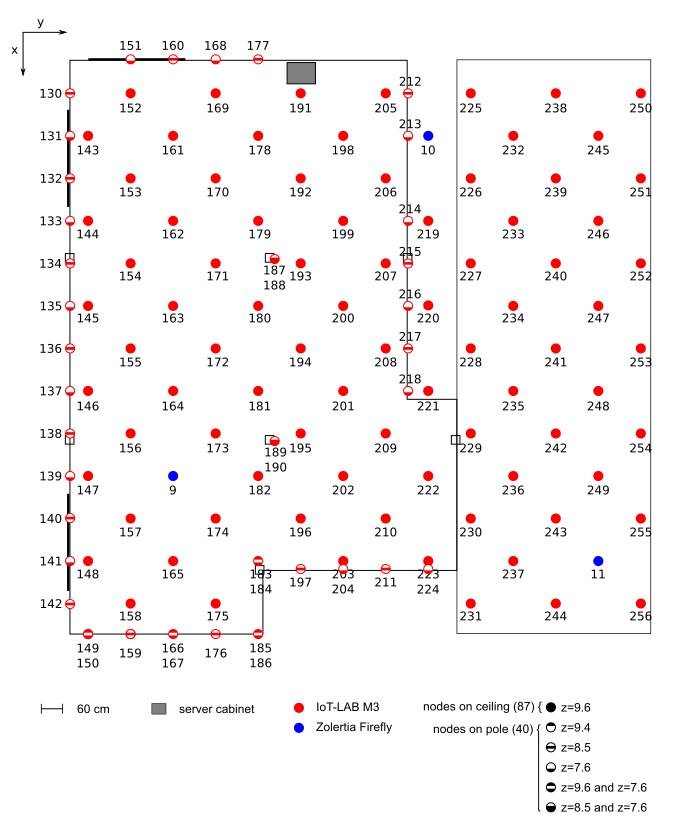
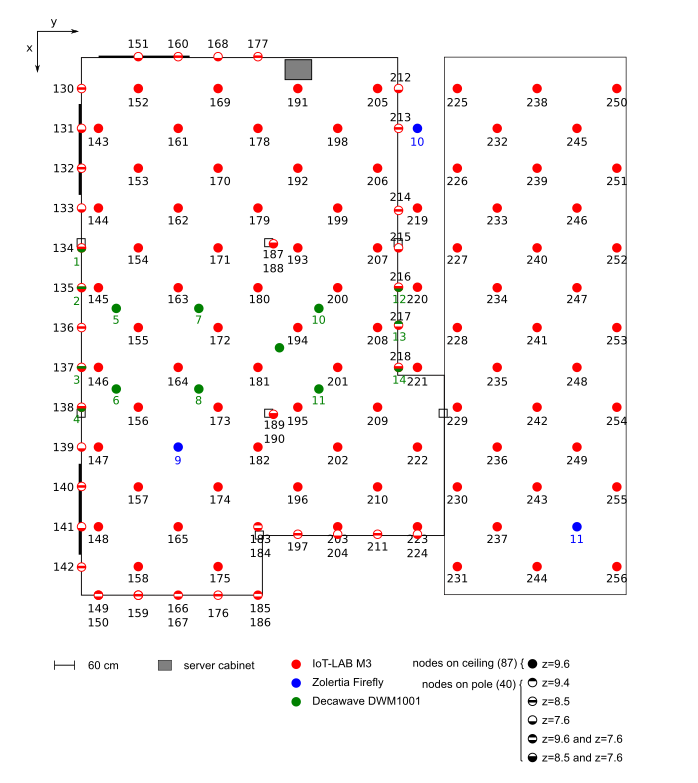
deployment/lille: update with decawave deployment and Le Cube detailed

diff --git a/docs/deployment/lille.md b/docs/deployment/lille.md
@@ -10,6 +10,7 @@ description: "On the Lille site, the nodes are deployed in our two buidlings at 
 * In the [A building](#topology-in-the-a-building):
     * 256 IoT-LAB M3
     * 11 Zolertia Firefly
+    * 14 Decawave DWM1001
 * A set of different boards in [Le Cube](#le-cube):
     * 5 BBC micro:bit
     * 5 IoT-LAB M3
@@ -36,7 +37,7 @@ Here is the distribution of nodes per floor:
 * Ground floor: <tt>m3-[1-45], firefly-[1-3]</tt>
 * First floor: <tt>m3-[46-111], firefly-[4-6]</tt>
 * Second floor: <tt>m3-[112-129], firefly-[7-8]</tt>
-* Dedicated room (2nd floor): <tt>m3-[130-256], firefly[9-11]</tt>
+* Dedicated room (2nd floor): <tt>m3-[130-256], firefly[9-11], dwm1001-[1-14]</tt>
 
 
 <div class="mb-3 embed-responsive embed-responsive-16by9">
@@ -77,6 +78,9 @@ Here is the distribution of nodes per floor:
 ## Le Cube
 
 There is an additional deployment in the B building, around 100 m from the other one, in a wooden structure called Le Cube. It's purpose, here, is not to experiment at a large scale, but rather to test network solutions, protocols or Operating Systems over different hardwares and radios. This deployment brings a practical way to experiment compatibility and interoperability scenarios.
+
+Here is the list of nodes present there: <tt>firefly[12-16], m3-[260-264], microbit-[1-5], samr21-[1-5], st-lrwam1-[1-5]</tt>
+
 
 <div class="row">
     <div class="col p-1">
